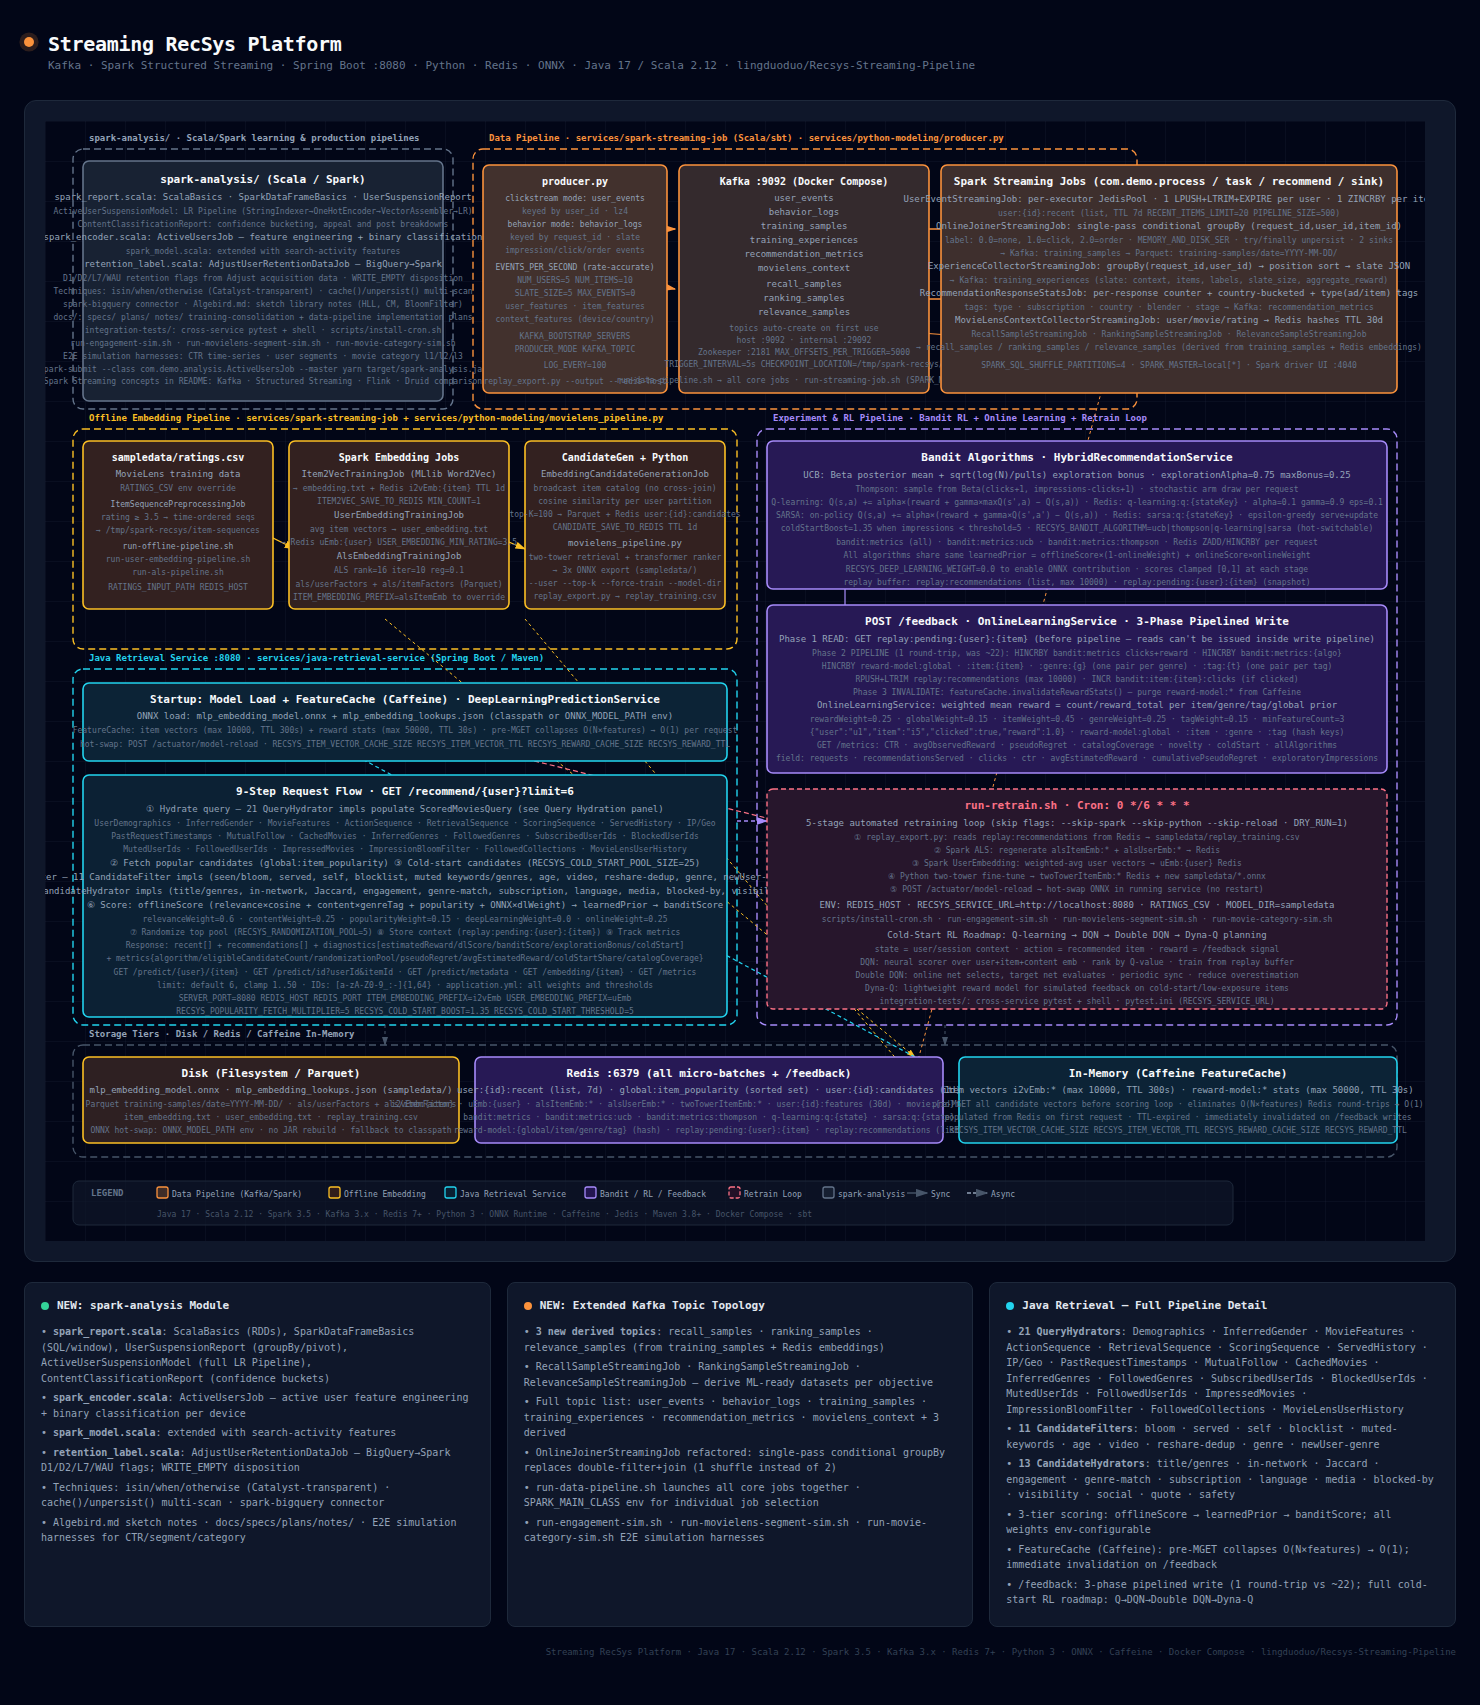
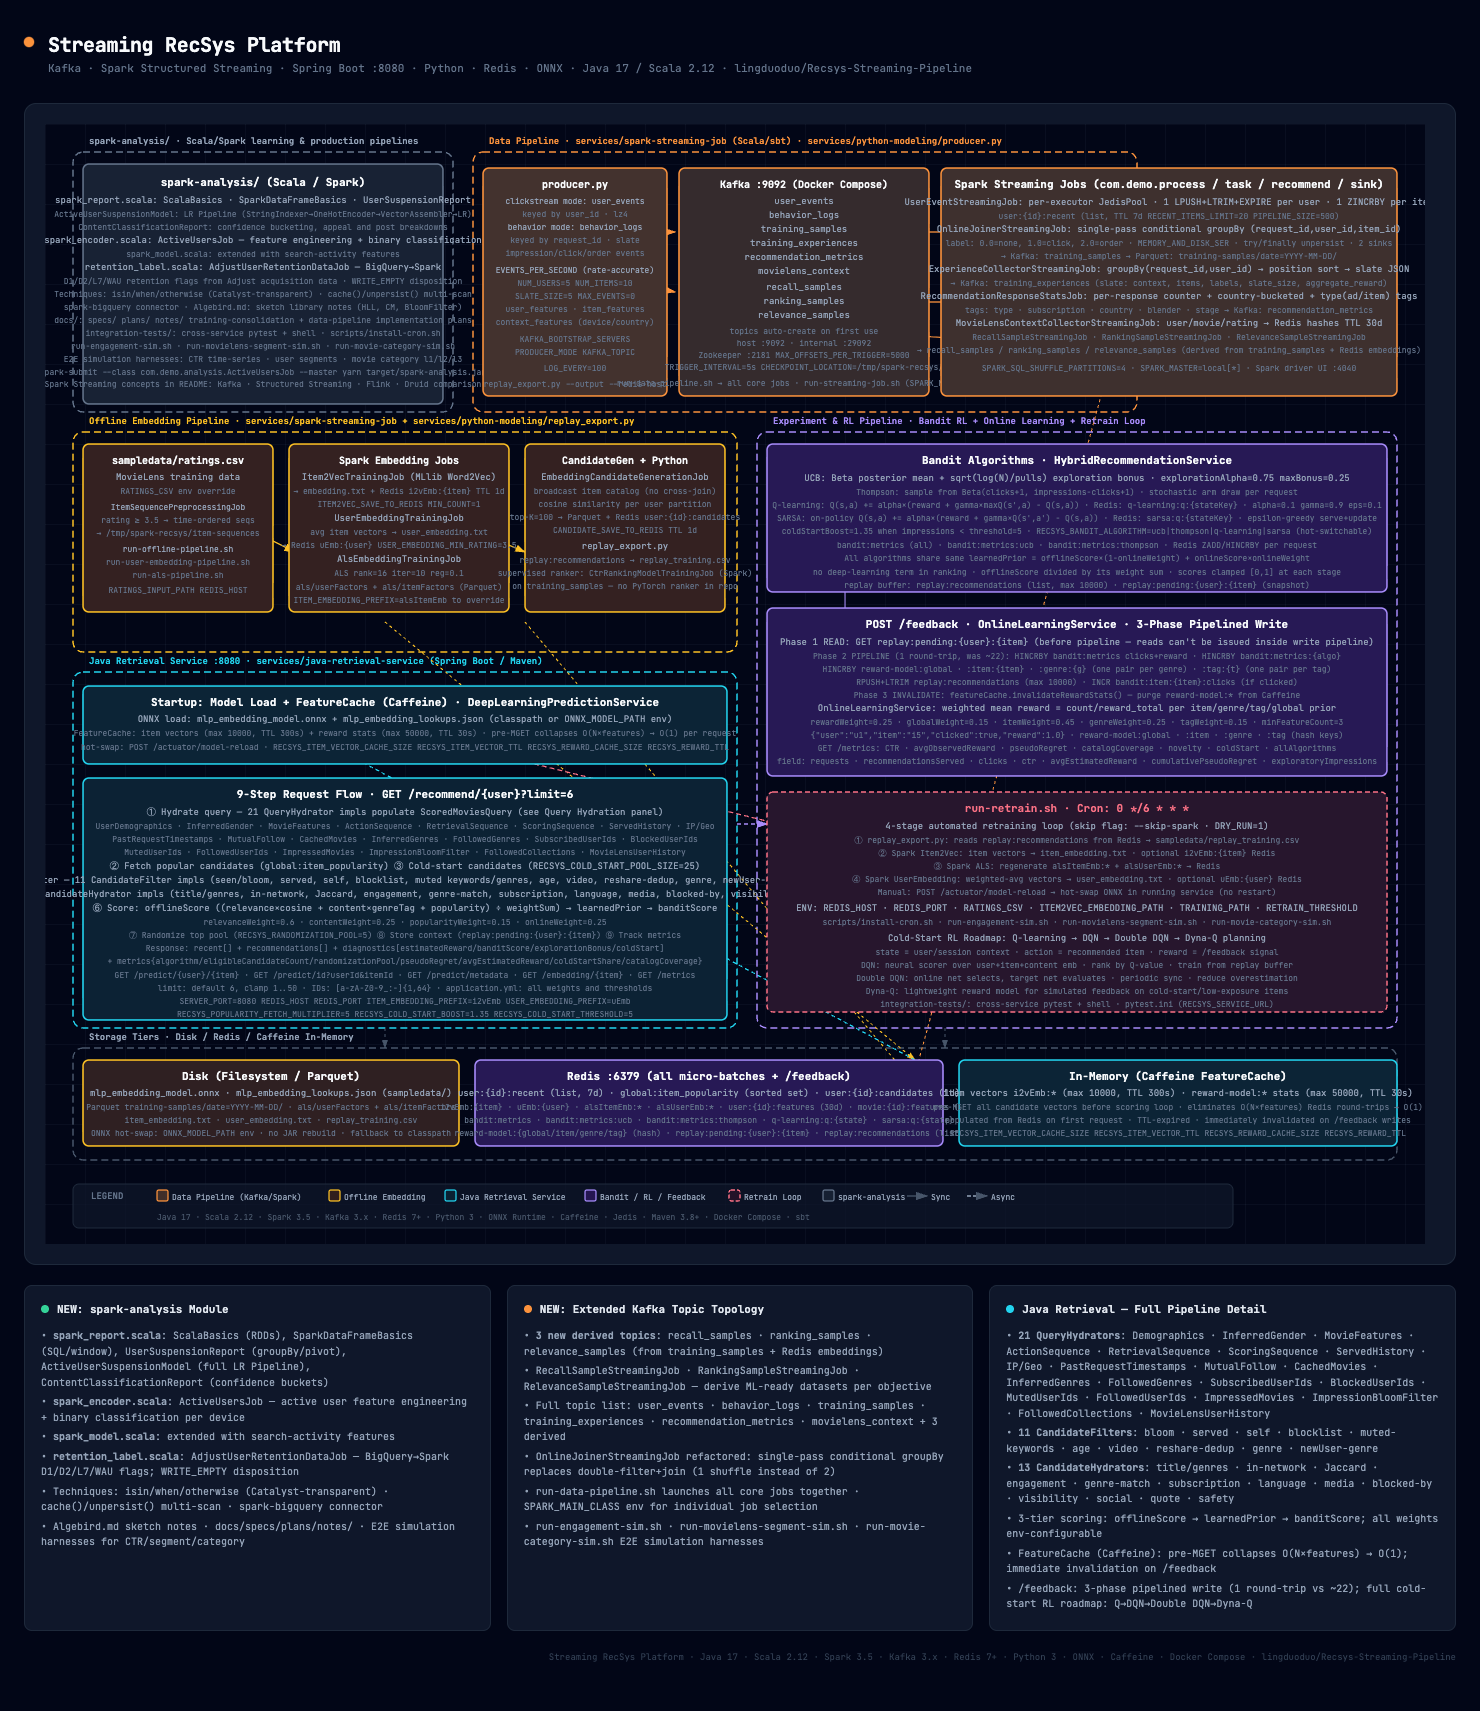
docs: align SFT consolidation artifacts with surviving predict API

diff --git a/recsys-pipeline/recsys-streaming-pipeline-architecture.html b/recsys-pipeline/recsys-streaming-pipeline-architecture.html
@@ -293,11 +293,11 @@
 <text x="1032" y="688" fill="#fb7185" font-family="'JetBrains Mono',monospace" font-size="11" font-weight="700" text-anchor="middle">run-retrain.sh  ·  Cron: 0 */6 * * *</text>
 <text x="1032" y="705" fill="#94a3b8" font-family="'JetBrains Mono',monospace" font-size="9" text-anchor="middle">4-stage automated retraining loop (skip flag: --skip-spark · DRY_RUN=1)</text>
 <text x="1032" y="719" fill="#64748b" font-family="'JetBrains Mono',monospace" font-size="8" text-anchor="middle">① replay_export.py: reads replay:recommendations from Redis → sampledata/replay_training.csv</text>
-<text x="1032" y="732" fill="#64748b" font-family="'JetBrains Mono',monospace" font-size="8" text-anchor="middle">② Spark Item2Vec: item vectors → embedding.txt + i2vEmb:{item} Redis</text>
+<text x="1032" y="732" fill="#64748b" font-family="'JetBrains Mono',monospace" font-size="8" text-anchor="middle">② Spark Item2Vec: item vectors → item_embedding.txt · optional i2vEmb:{item} Redis</text>
 <text x="1032" y="745" fill="#64748b" font-family="'JetBrains Mono',monospace" font-size="8" text-anchor="middle">③ Spark ALS: regenerate alsItemEmb:* + alsUserEmb:* → Redis</text>
-<text x="1032" y="758" fill="#64748b" font-family="'JetBrains Mono',monospace" font-size="8" text-anchor="middle">④ Spark UserEmbedding: weighted-avg user vectors → uEmb:{user} Redis</text>
+<text x="1032" y="758" fill="#64748b" font-family="'JetBrains Mono',monospace" font-size="8" text-anchor="middle">④ Spark UserEmbedding: weighted-avg vectors → user_embedding.txt · optional uEmb:{user} Redis</text>
 <text x="1032" y="771" fill="#64748b" font-family="'JetBrains Mono',monospace" font-size="8" text-anchor="middle">Manual: POST /actuator/model-reload → hot-swap ONNX in running service (no restart)</text>
-<text x="1032" y="787" fill="#94a3b8" font-family="'JetBrains Mono',monospace" font-size="9" text-anchor="middle">ENV: REDIS_HOST · RECSYS_SERVICE_URL=http://localhost:8080 · RATINGS_CSV · MODEL_DIR=sampledata</text>
+<text x="1032" y="787" fill="#94a3b8" font-family="'JetBrains Mono',monospace" font-size="9" text-anchor="middle">ENV: REDIS_HOST · REDIS_PORT · RATINGS_CSV · ITEM2VEC_EMBEDDING_PATH · TRAINING_PATH · RETRAIN_THRESHOLD</text>
 <text x="1032" y="801" fill="#64748b" font-family="'JetBrains Mono',monospace" font-size="8" text-anchor="middle">scripts/install-cron.sh · run-engagement-sim.sh · run-movielens-segment-sim.sh · run-movie-category-sim.sh</text>
 <text x="1032" y="817" fill="#94a3b8" font-family="'JetBrains Mono',monospace" font-size="9" text-anchor="middle">Cold-Start RL Roadmap: Q-learning → DQN → Double DQN → Dyna-Q planning</text>
 <text x="1032" y="831" fill="#64748b" font-family="'JetBrains Mono',monospace" font-size="8" text-anchor="middle">state = user/session context · action = recommended item · reward = /feedback signal</text>

diff --git a/.superpowers/docs/plans/2026-08-25-consolidate-sft.md b/.superpowers/docs/plans/2026-08-25-consolidate-sft.md
@@ -2,13 +2,13 @@
 
 > **For agentic workers:** REQUIRED SUB-SKILL: Use superpowers:subagent-driven-development (recommended) or superpowers:executing-plans to implement this plan task-by-task. Steps use checkbox (`- [ ]`) syntax for tracking.
 
-**Goal:** Leave the repository with one supervised ranker — Spark's `CtrRankingModelTrainingJob` — by deleting the PyTorch training pipeline and the Java ONNX serving path that would otherwise have no producer, without changing any score the service computes.
+**Goal:** Leave the repository with one supervised ranker — Spark's `CtrRankingModelTrainingJob` — by deleting the PyTorch training pipeline and its orphaned two-tower Java ranking path, without changing any score the service computes. The independent `/predict` ONNX API is preserved.
 
-**Architecture:** This is a deletion refactor. Behaviour is pinned first by characterization tests, then the producer (Python) and the consumer (Java) are removed, then documentation is swept. The Java removal is deliberately one atomic task because the build does not compile between deleting a service and removing its injection site.
+**Architecture:** This is a deletion refactor. Behaviour is pinned first by characterization tests, then the producer (Python) and its `TwoTowerPredictionService` consumer are removed, then documentation is swept. `DeepLearningPredictionService`, `ModelReloadController`, the `/predict` endpoints, their resources and tests, and the ONNX runtime dependency remain because they form a separate live API.
 
 **Tech Stack:** Java 17 + Maven + JUnit 5 (retrieval service), Python 3 + pytest (modeling), Scala + sbt (Spark jobs — untouched).
 
-**Spec:** `.superpowers/docs/specs/2026-08-21-consolidate-sft-design.md`
+**Spec:** `.superpowers/docs/specs/2026-08-25-consolidate-sft-design.md`
 
 ## Global Constraints
 
@@ -31,12 +31,12 @@
 | `integration-tests/python_modeling/test_movielens_pipeline.py` | **Delete** (Task 2) |
 | `sampledata/movielens_{ranking,user_tower,item_tower}.onnx` | **Delete** (Task 2) |
 | `scripts/run-retrain.sh` | Remove steps 5 and 6 (Task 2) |
-| `.../service/DeepLearningPredictionService.java`, `TwoTowerPredictionService.java`, `.../controller/ModelReloadController.java` + tests | **Delete** (Task 3) |
+| `.../service/TwoTowerPredictionService.java` + test | **Delete** (Task 3) |
 | `.../service/HybridRecommendationService.java` | Remove dl plumbing (Task 3) |
 | `.../service/RecommendationConstants.java` | Drop two parameters (Task 3) |
 | `.../service/scorers/MovieLensOutcomeScorer.java` | Drop dl terms and `ScoringInput.dlScore` (Task 3) |
 | `.../config/RecommendationProperties.java`, `src/main/resources/application.yml` | Drop `deepLearningWeight` (Task 3) |
-| `services/java-retrieval-service/pom.xml` | Drop the onnxruntime dependency (Task 3) |
+| `.../service/DeepLearningPredictionService.java`, `.../controller/ModelReloadController.java`, resources, tests, and `pom.xml` | **Keep** for the independent `/predict` API |
 | `integration-tests/test_application_config.py` | Drop the `deep-learning-weight` assertion (Task 3) |
 | `README.md`, `docs/recommendation_architecture/Data_Pipeline.md`, `docs/recommendation_flows/6_Predicting_Scoring.md` | Documentation sweep (Task 4) |
 
@@ -230,13 +230,14 @@ CtrRankingModelTrainingJob is the supervised ranker from here."
 
 ---
 
-### Task 3: Remove the Java ONNX serving path
+### Task 3: Remove the Java two-tower ranking path
 
-This is one task because the build does not compile between deleting a service and removing its injection site. Do not split it.
+This is one task because the build does not compile between deleting `TwoTowerPredictionService` and removing its injection and scoring call sites. Do not split it. The similarly named `DeepLearningPredictionService` is not part of this path and must remain.
 
 **Files:**
-- Delete: `.../service/DeepLearningPredictionService.java`, `.../service/TwoTowerPredictionService.java`, `.../controller/ModelReloadController.java`, and every test of those three
-- Modify: `.../service/HybridRecommendationService.java`, `.../service/RecommendationConstants.java`, `.../service/scorers/MovieLensOutcomeScorer.java`, `.../config/RecommendationProperties.java`, `src/main/resources/application.yml`, `pom.xml`
+- Delete: `.../service/TwoTowerPredictionService.java` and its test
+- Modify: `.../service/HybridRecommendationService.java`, `.../service/RecommendationConstants.java`, `.../service/scorers/MovieLensOutcomeScorer.java`, `.../config/RecommendationProperties.java`, `src/main/resources/application.yml`
+- Keep byte-identical: `DeepLearningPredictionService`, `ModelReloadController`, their resources and tests, and the `onnxruntime` dependency
 - Modify: `.../service/RecommendationConstantsTest.java`, `.../service/HybridRecommendationServiceTest.java`, `recsys-pipeline/integration-tests/test_application_config.py`
 
 **Interfaces:**
@@ -249,17 +250,17 @@ This is one task because the build does not compile between deleting a service a
 cd /Users/linghuang/Git/Recsys-Streaming-Pipeline/recsys-pipeline/services/java-retrieval-service
 grep -rn "DeepLearningPredictionService\|TwoTowerPredictionService\|ModelReloadController\|deepLearningWeight\|dlScore\|deepLearningScore\|onnx\|Onnx\|ONNX" src/ pom.xml
 ```
-Record the full list in your report. The spec warns that `ModelReloadController` may be referenced by an actuator-endpoint test or a config allow-list beyond the three known references — this grep is how you find out. Work from this list, not from memory.
+Record the full list in your report. Use it to distinguish the ranking path from the independent `/predict` API; do not delete a reference merely because it mentions ONNX.
 
-- [ ] **Step 2: Delete the three classes and their tests**
+- [ ] **Step 2: Delete the two-tower class and its test**
 
 ```bash
 cd /Users/linghuang/Git/Recsys-Streaming-Pipeline
-git rm recsys-pipeline/services/java-retrieval-service/src/main/java/com/demo/retrieval/service/DeepLearningPredictionService.java \
-       recsys-pipeline/services/java-retrieval-service/src/main/java/com/demo/retrieval/service/TwoTowerPredictionService.java \
-       recsys-pipeline/services/java-retrieval-service/src/main/java/com/demo/retrieval/controller/ModelReloadController.java
+git rm recsys-pipeline/services/java-retrieval-service/src/main/java/com/demo/retrieval/service/TwoTowerPredictionService.java \
+       recsys-pipeline/services/java-retrieval-service/src/test/java/com/demo/retrieval/service/TwoTowerPredictionServiceTest.java
 ```
-Then `git rm` each test file the Step 1 grep attributed to those three classes (`TwoTowerPredictionServiceTest.java` is one; there may be others).
+
+Confirm `DeepLearningPredictionService`, `ModelReloadController`, their tests/resources, and the three `/predict` endpoints still exist.
 
 - [ ] **Step 3: Drop the two parameters from `blendOfflineScore`**
 
@@ -304,13 +305,13 @@ In `.../service/scorers/MovieLensOutcomeScorer.java`:
 
 - [ ] **Step 5: Remove the plumbing from `HybridRecommendationService`**
 
-Delete the `deepLearningEnabled` / `dlScoresRaw` / `dlScores` block at lines 212-226 and the two constructor-injected fields for the deleted services. At line 235, the `dlScores.getOrDefault(item, 0.0)` argument to the per-candidate scoring call goes away along with the corresponding parameter. Delete `predictions.put("deepLearningScore", round(candidate.dlScore()));` from `modelPredictions`, and the `dlScore` component from the `ScoredCandidate` record and every construction site. Follow the compiler: run Step 7 repeatedly and fix what it names.
+Delete the `deepLearningEnabled` / `dlScoresRaw` / `dlScores` block and both ranking-path constructor injections (`TwoTowerPredictionService` and `DeepLearningPredictionService`) from `HybridRecommendationService`. At the per-candidate scoring call, the `dlScores.getOrDefault(item, 0.0)` argument goes away along with the corresponding parameter. Delete `predictions.put("deepLearningScore", round(candidate.dlScore()));` from `modelPredictions`, and the `dlScore` component from the `ScoredCandidate` record and every construction site. Keep the separate `DeepLearningPredictionService` bean and its injection into `RecommendationController`, which serves the `/predict` endpoints. Follow the compiler: run Step 7 repeatedly and fix what it names.
 
-- [ ] **Step 6: Remove the configuration and the dependency**
+- [ ] **Step 6: Remove the ranking configuration**
 
 - `.../config/RecommendationProperties.java`: delete the `deepLearningWeight` field and its getter and setter (lines 244, 314-319).
 - `src/main/resources/application.yml`: delete the `deep-learning-weight` line.
-- `pom.xml`: delete the `com.microsoft.onnxruntime` dependency block (lines 50-53) and the `<onnxruntime.version>` property (line 21).
+- Keep the `com.microsoft.onnxruntime` dependency and version property; `DeepLearningPredictionService` still requires them.
 
 - [ ] **Step 7: Compile, then fix the two dl-specific tests**
 
@@ -358,11 +359,11 @@ Expected: the Java suite passes. The Python suite shows the same two pre-existin
 
 ```bash
 git add -A recsys-pipeline/services/java-retrieval-service recsys-pipeline/integration-tests/test_application_config.py
-git commit -m "refactor: remove the orphaned ONNX serving path
+git commit -m "refactor: remove the orphaned two-tower ranking path
 
 Deleting the PyTorch producer left this path with no model to load, and it
-was already unreachable: deepLearningWeight defaults to 0.0 and no script
-sets ONNX_MODEL_PATH. The surviving weights are deliberately not
+was already unreachable because deepLearningWeight defaults to 0.0. The
+independent /predict ONNX API remains. The surviving weights are deliberately not
 renormalized -- every removed term contributed exactly zero, so leaving them
 preserves output exactly. The characterization tests pin that."
 ```
@@ -391,7 +392,7 @@ Work from this list. Known sites: `README.md` lines 6, 79, 264-265, 930 and the 
 For every hit, remove the claim or replace it with what is now true. Specifically:
 - The pipeline diagram at `README.md:79` shows `run-retrain.sh ──► retrain embeddings + model ──► POST /actuator/model-reload  (hot-swap)`. The hot-swap arrow is gone; the retrain script now only refreshes embeddings.
 - `README.md:264-265` lists the Python two-tower step and the model hot-reload step. Both are gone; renumber the surrounding list.
-- The scoring table in `6_Predicting_Scoring.md` lists **Offline** (`DeepLearningPredictionService`) and **Two-tower** (`TwoTowerPredictionService`) rows. Delete both rows and remove `deepLearningWeight × onnxScore` from the `offlineScore` formula shown beneath it.
+- The scoring table in `6_Predicting_Scoring.md` lists the ranking-time **Two-tower** (`TwoTowerPredictionService`) row. Delete that row and remove `deepLearningWeight × onnxScore` from the `offlineScore` formula shown beneath it. Keep standalone `/predict` documentation for `DeepLearningPredictionService`.
 - The retrieval-service configuration table in `README.md` documents `recsys.bandit.deep-learning-weight` / `RECSYS_DEEP_LEARNING_WEIGHT`. Delete that row.
 - Where a doc describes `CtrRankingModelTrainingJob` as "offline only", leave it — that remains true.
 
@@ -401,9 +402,9 @@ Do not add new claims about the Spark job being served. It is not.
 
 ```bash
 cd /Users/linghuang/Git/Recsys-Streaming-Pipeline/recsys-pipeline
-grep -rn -i "movielens_pipeline\|model-reload\|onnx" README.md docs/ services/java-retrieval-service/src/main services/java-retrieval-service/pom.xml services/python-modeling | grep -v node_modules
+grep -rn -i "movielens_pipeline\|deep-learning-weight\|RECSYS_DEEP_LEARNING_WEIGHT\|TwoTowerPredictionService\|ONNX_USER_TOWER_PATH\|ONNX_ITEM_TOWER_PATH\|ONNX_RANKING_PATH" README.md docs/ services/java-retrieval-service/src/main services/java-retrieval-service/pom.xml services/python-modeling | grep -v node_modules
 ```
-Expected: no output. Any hit is either a doc you missed or code that should have been deleted in Task 3.
+Expected: no output. Generic ONNX, `model-reload`, `DeepLearningPredictionService`, and `ModelReloadController` references are expected because the independent `/predict` API survives.
 
 - [ ] **Step 4: Re-run both suites one final time**
 
@@ -423,18 +424,18 @@ Run `git diff --stat master...HEAD | tail -3` and record the total lines removed
 
 ```bash
 git add recsys-pipeline/README.md recsys-pipeline/docs
-git commit -m "docs: drop the ONNX serving path and PyTorch pipeline from the docs"
+git commit -m "docs: remove the two-tower ranking path and PyTorch pipeline"
 ```
 
 ---
 
 ## Self-Review Notes
 
-**Spec coverage.** Producer deletion → Task 2. Orphaned-consumer deletion including the pom dependency → Task 3. Documentation → Task 4. The no-renormalization rule → Task 3 Steps 3-4 and the Global Constraints. Success criterion 1 (characterization) → Task 1, verified again in Task 3 Step 7. Criterion 2 (suites pass with four amendments) → Task 3 Steps 7-9. Criterion 3 (greps clean) → Task 4 Step 3. Criterion 4 (`run-retrain.sh`) → Task 2 Step 4. Criterion 5 (no doc references) → Task 4 Step 3. Risk "ModelReloadController may have unknown references" → Task 3 Step 1 searches rather than assumes.
+**Spec coverage.** Producer deletion → Task 2. Orphaned two-tower consumer deletion while preserving the independent `/predict` API → Task 3. Documentation → Task 4. The no-renormalization rule → Task 3 Steps 3-4 and the Global Constraints. Success criterion 1 (characterization) → Task 1, verified again in Task 3 Step 7. Criterion 2 (suites pass with four amendments) → Task 3 Steps 7-9. Criterion 3 (scoped greps clean) → Task 4 Step 3. Criterion 4 (`run-retrain.sh`) → Task 2 Step 4. Criterion 5 (no stale doc references) → Task 4 Step 3.
 
 **Ordering.** Task 1 must precede Tasks 2-3 or there is nothing pinning behaviour. Tasks 2 and 3 are independent of each other. Task 4 requires both.
 
-**Why Task 3 is not split.** Deleting `DeepLearningPredictionService` while `HybridRecommendationService` still injects it leaves the module uncompilable, so no intermediate commit would be green. The task is large by necessity, not by preference.
+**Why Task 3 is not split.** Deleting `TwoTowerPredictionService` while `HybridRecommendationService` still injects it leaves the module uncompilable, so its deletion and ranking-plumbing removal are atomic.
 
 **Known imprecision in the spec, already corrected there.** The spec initially claimed both removal sites are inert "because `deepLearningWeight` is 0.0". Only `blendOfflineScore` is. `MovieLensOutcomeScorer` is not gated by that weight and is inert only because `dlScore` is always `0.0` at runtime. Both the Global Constraints and Task 1 Step 2's comment state the distinction.
 
